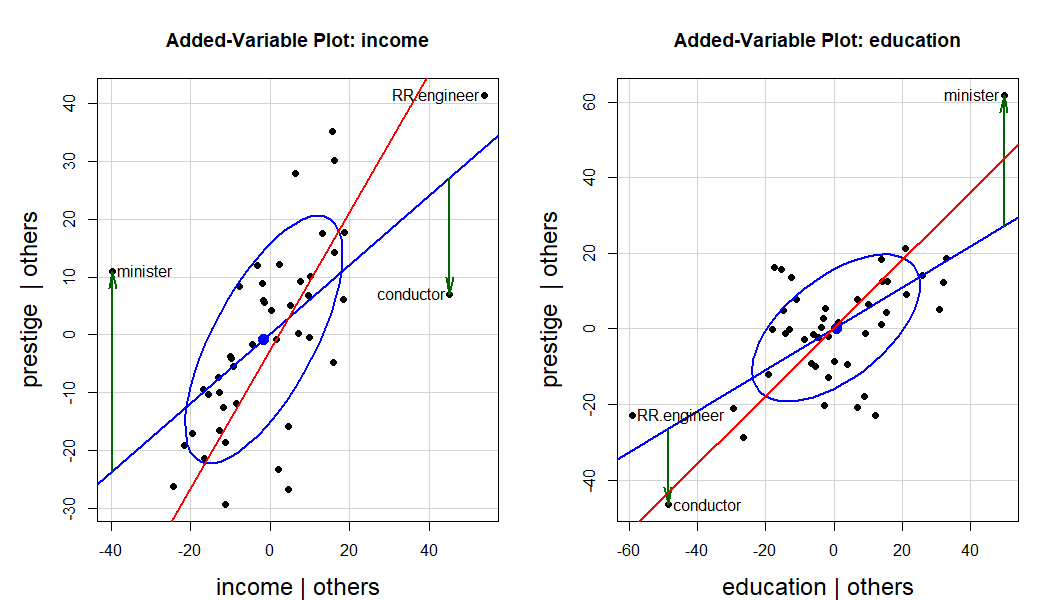
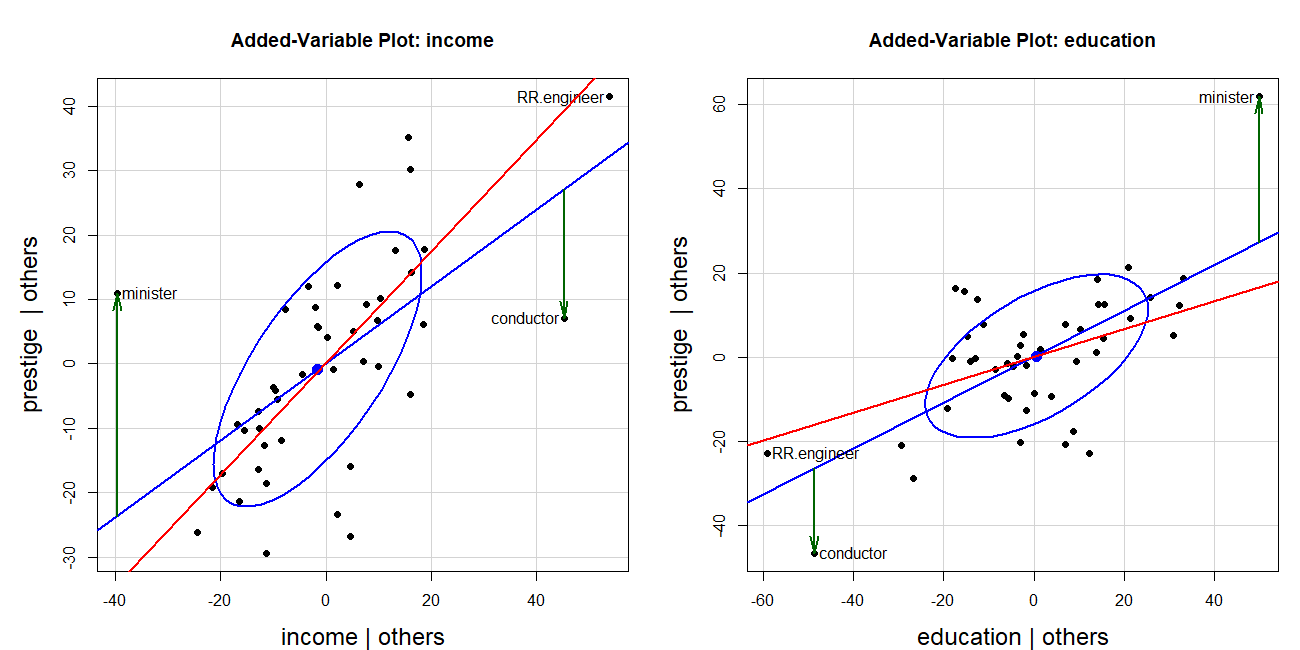
fix duncan-av-infl plot

diff --git a/docs/06-linear_models-plots.html b/docs/06-linear_models-plots.html
@@ -2081,7 +2081,7 @@ Figure&nbsp;6.26: Influence plot for the model predicting occupational prestige 
 </ul></section><section id="influence-in-added-variable-plots" class="level3" data-number="6.6.4"><h3 data-number="6.6.4" class="anchored" data-anchor-id="influence-in-added-variable-plots">
 <span class="header-section-number">6.6.4</span> Influence in added-variable plots</h3>
 <p>The properties of added-variable plots discussed in <a href="#sec-avplots" class="quarto-xref"><span>Section 6.4</span></a> make them also useful for understanding why cases are influential because they control for other predictors in each plot, and therefore show the <em>partial</em> contributions of each observation to hat values and residuals. As a consequence, we can see directly the how individual cases become individually or jointly influential.</p>
-<p>The Duncan data provides a particularly instructive example of this. <a href="#fig-duncan-av-influence" class="quarto-xref">Figure&nbsp;<span>6.27</span></a> shows the AV plots for both income and education in the model <code>duncan.mod</code>, with some annotations added. I want to focus here on the <em>joint</em> influence of the occupations minister and conductor which were seen to be the most influential in <a href="#fig-duncan-infl" class="quarto-xref">Figure&nbsp;<span>6.26</span></a>.</p>
+<p>The Duncan data provides a particularly instructive example of this. <a href="#fig-duncan-av-influence" class="quarto-xref">Figure&nbsp;<span>6.27</span></a> shows the AV plots for both income and education in the model <code>duncan.mod</code>, with some annotations added. I want to focus here on the <em>joint</em> influence of the occupations minister and conductor which were seen to be the most influential in <a href="#fig-duncan-infl" class="quarto-xref">Figure&nbsp;<span>6.26</span></a>. The <span style="color: green;">green</span> vertical lines show their residuals in each panel and the <span style="color: red;">red</span> show the regression lines when these two observations are deleted.</p>
 <p>The basic AV plots are produced using the call to <code><a href="https://rdrr.io/pkg/car/man/avPlots.html">avPlots()</a></code> below. To avoid clutter, I use the argument <code>id = list(method = "mahal", n=3)</code> so that only the three points with the greatest Mahalanobis distances from the centroid in each plot are labeled. These are the cases with the largest leverage seen in <a href="#fig-duncan-infl" class="quarto-xref">Figure&nbsp;<span>6.26</span></a>.</p>
 <div class="cell" data-layout-align="center">
 <div class="sourceCode" id="cb57" data-source-line-numbers="nil" data-code-line-numbers="nil"><pre class="downlit sourceCode r code-with-copy"><code class="sourceCode R"><span><span class="fu"><a href="https://rdrr.io/pkg/car/man/avPlots.html">avPlots</a></span><span class="op">(</span><span class="va">duncan.mod</span>,</span>
@@ -2091,20 +2091,46 @@ Figure&nbsp;6.26: Influence plot for the model predicting occupational prestige 
 <span>  cex.lab <span class="op">=</span> <span class="fl">1.5</span><span class="op">)</span></span></code><button title="Copy to Clipboard" class="code-copy-button"><i class="bi"></i></button></pre></div>
 </div>
 <div class="cell" data-layout-align="center">
-<div class="sourceCode" id="cb58" data-source-line-numbers="nil" data-code-line-numbers="nil"><pre class="downlit sourceCode r code-with-copy"><code class="sourceCode R"><span><span class="fu">knitr</span><span class="fu">::</span><span class="fu"><a href="https://rdrr.io/pkg/knitr/man/include_graphics.html">include_graphics</a></span><span class="op">(</span><span class="st">"images/duncan-av-influence.png"</span><span class="op">)</span></span></code><button title="Copy to Clipboard" class="code-copy-button"><i class="bi"></i></button></pre></div>
 <div class="cell-output-display">
 <div id="fig-duncan-av-influence" class="quarto-float quarto-figure quarto-figure-center anchored" data-fig-align="center">
 <figure class="quarto-float quarto-float-fig figure"><div aria-describedby="fig-duncan-av-influence-caption-0ceaefa1-69ba-4598-a22c-09a6ac19f8ca">
 <img src="images/duncan-av-influence.png" class="img-fluid quarto-figure quarto-figure-center figure-img" style="width:100.0%">
 </div>
 <figcaption class="quarto-float-caption-bottom quarto-float-caption quarto-float-fig" id="fig-duncan-av-influence-caption-0ceaefa1-69ba-4598-a22c-09a6ac19f8ca">
-Figure&nbsp;6.27: Added variable plots for the Duncan model, highlighting the impact of the observations for min ister and conductor in each plot. The red line in each panel shows the partial regression line omitting these observations.
+Figure&nbsp;6.27: Added variable plots for the Duncan model, highlighting the impact of the observations for min ister and conductor in each plot. The red line in each panel shows the regression line omitting these observations.
 </figcaption></figure>
 </div>
 </div>
 </div>
-<p>The two cases—minister and conductor— are the most highly influential, and …</p>
-<p><strong>TODO</strong>: The regression lines omitting these cases aren’t correct. Fix this.</p>
+<p>The two cases—minister and conductor— are the most highly influential, but as we can see in <a href="#fig-duncan-av-influence" class="quarto-xref">Figure&nbsp;<span>6.27</span></a> their influence combines because they are at opposite sides of the horizontal axis and their residuals are of opposite signs They act together to decrease the slope for income and increase that for education.</p>
+<div class="cell" data-layout-align="center">
+<details class="code-fold"><summary>Code for income AV plot</summary><div class="sourceCode" id="cb58" data-source-line-numbers="nil" data-code-line-numbers="nil"><pre class="downlit sourceCode r code-with-copy"><code class="sourceCode R"><span><span class="va">res</span> <span class="op">&lt;-</span> <span class="fu"><a href="https://rdrr.io/pkg/car/man/avPlots.html">avPlot</a></span><span class="op">(</span><span class="va">duncan.mod</span>, <span class="st">"income"</span>,</span>
+<span>              ellipse <span class="op">=</span> <span class="fu"><a href="https://rdrr.io/r/base/list.html">list</a></span><span class="op">(</span>levels <span class="op">=</span> <span class="fl">0.68</span><span class="op">)</span>,</span>
+<span>              id <span class="op">=</span> <span class="fu"><a href="https://rdrr.io/r/base/list.html">list</a></span><span class="op">(</span>method <span class="op">=</span> <span class="st">"mahal"</span>, n<span class="op">=</span><span class="fl">3</span><span class="op">)</span>,</span>
+<span>              pch <span class="op">=</span> <span class="fl">16</span>,</span>
+<span>              cex.lab <span class="op">=</span> <span class="fl">1.5</span><span class="op">)</span> <span class="op">|&gt;</span></span>
+<span>  <span class="fu"><a href="https://rdrr.io/r/base/as.data.frame.html">as.data.frame</a></span><span class="op">(</span><span class="op">)</span></span>
+<span><span class="va">fit</span> <span class="op">&lt;-</span> <span class="fu"><a href="https://rdrr.io/r/stats/lm.html">lm</a></span><span class="op">(</span><span class="va">prestige</span> <span class="op">~</span> <span class="va">income</span>, data <span class="op">=</span> <span class="va">res</span><span class="op">)</span></span>
+<span><span class="va">info</span> <span class="op">&lt;-</span> <span class="fu"><a href="https://rdrr.io/r/base/cbind.html">cbind</a></span><span class="op">(</span><span class="va">res</span>, fitted <span class="op">=</span> <span class="fu"><a href="https://rdrr.io/r/stats/fitted.values.html">fitted</a></span><span class="op">(</span><span class="va">fit</span><span class="op">)</span>, </span>
+<span>             resids <span class="op">=</span> <span class="fu"><a href="https://rdrr.io/r/stats/residuals.html">residuals</a></span><span class="op">(</span><span class="va">fit</span><span class="op">)</span>,</span>
+<span>             hat <span class="op">=</span> <span class="fu"><a href="https://rdrr.io/r/stats/influence.measures.html">hatvalues</a></span><span class="op">(</span><span class="va">fit</span><span class="op">)</span>,</span>
+<span>             cookd <span class="op">=</span> <span class="fu"><a href="https://rdrr.io/r/stats/influence.measures.html">cooks.distance</a></span><span class="op">(</span><span class="va">fit</span><span class="op">)</span><span class="op">)</span></span>
+<span></span>
+<span><span class="co"># noteworthy points in this plot</span></span>
+<span><span class="va">big</span> <span class="op">&lt;-</span> <span class="fu"><a href="https://rdrr.io/r/base/which.html">which</a></span><span class="op">(</span><span class="va">info</span><span class="op">$</span><span class="va">cookd</span> <span class="op">&gt;</span> <span class="fl">.20</span><span class="op">)</span></span>
+<span><span class="fu"><a href="https://rdrr.io/r/base/with.html">with</a></span><span class="op">(</span><span class="va">info</span>, <span class="op">{</span></span>
+<span>  <span class="fu"><a href="https://rdrr.io/r/graphics/arrows.html">arrows</a></span><span class="op">(</span><span class="va">income</span><span class="op">[</span><span class="va">big</span><span class="op">]</span>, <span class="va">fitted</span><span class="op">[</span><span class="va">big</span><span class="op">]</span>, <span class="va">income</span><span class="op">[</span><span class="va">big</span><span class="op">]</span>, <span class="va">prestige</span><span class="op">[</span><span class="va">big</span><span class="op">]</span>, </span>
+<span>         angle <span class="op">=</span> <span class="fl">12</span>, length <span class="op">=</span> <span class="fl">.18</span>, lwd <span class="op">=</span> <span class="fl">2</span>, col <span class="op">=</span> <span class="st">"darkgreen"</span><span class="op">)</span></span>
+<span>  <span class="op">}</span><span class="op">)</span></span>
+<span></span>
+<span><span class="co"># line w/o the unusual points</span></span>
+<span><span class="va">duncan.mod2</span> <span class="op">&lt;-</span> <span class="fu"><a href="https://rdrr.io/r/stats/update.html">update</a></span><span class="op">(</span><span class="va">duncan.mod</span>, </span>
+<span>    subset <span class="op">=</span> <span class="op">-</span> <span class="fu"><a href="https://rdrr.io/pkg/car/man/which.names.html">whichNames</a></span><span class="op">(</span><span class="fu"><a href="https://rdrr.io/r/base/c.html">c</a></span><span class="op">(</span><span class="st">"minister"</span>, <span class="st">"conductor"</span><span class="op">)</span>, <span class="va">Duncan</span><span class="op">)</span><span class="op">)</span></span>
+<span></span>
+<span><span class="va">bs</span> <span class="op">&lt;-</span> <span class="fu"><a href="https://rdrr.io/r/stats/coef.html">coef</a></span><span class="op">(</span><span class="va">duncan.mod2</span><span class="op">)</span><span class="op">[</span><span class="st">"income"</span><span class="op">]</span></span>
+<span><span class="fu"><a href="https://rdrr.io/r/graphics/abline.html">abline</a></span><span class="op">(</span>a<span class="op">=</span><span class="fl">0</span>, b<span class="op">=</span><span class="va">bs</span>, col <span class="op">=</span> <span class="st">"red"</span>, lwd<span class="op">=</span><span class="fl">2</span><span class="op">)</span></span></code><button title="Copy to Clipboard" class="code-copy-button"><i class="bi"></i></button></pre></div>
+</details>
+</div>
 <p><strong>Package summary</strong></p>
 <div class="cell" data-layout-align="center">
 <pre data-code-line-numbers=""><code>#&gt; Writing packages to  C:/R/Projects/Vis-MLM-book/bib/pkgs.txt

diff --git a/docs/index.html b/docs/index.html
@@ -5,7 +5,7 @@
 <meta name="generator" content="quarto-1.5.53">
 <meta name="viewport" content="width=device-width, initial-scale=1.0, user-scalable=yes">
 <meta name="author" content="Michael Friendly">
-<meta name="dcterms.date" content="2024-07-19">
+<meta name="dcterms.date" content="2024-07-20">
 <title>Visualizing Multivariate Data and Models in R</title>
 <style>
 code{white-space: pre-wrap;}
@@ -179,7 +179,7 @@ window.Quarto = {
       <div>
       <div class="quarto-title-meta-heading">Published</div>
       <div class="quarto-title-meta-contents">
-        <p class="date">July 19, 2024</p>
+        <p class="date">July 20, 2024</p>
       </div>
     </div>
     
